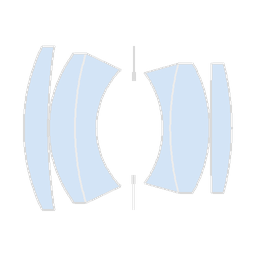
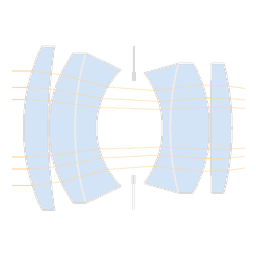
Add ray traces, fix review issues, hide panel when no diagrams
Trace refracted rays through each lens diagram showing how
parallel light converges after the lens system.

Also: extract _lens_index() helper for consistent EnumProperty
parsing, fix potential division-by-zero in ray clipping, extract
_is_stop() helper, and hide Lens Diagram panel when no PNGs exist.

diff --git a/scripts/build_diagrams.py b/scripts/build_diagrams.py
@@ -27,6 +27,11 @@ _SURFACE_LINE = (217, 217, 217, 255)
 _CEMENTED_LINE = (217, 217, 217, 128)
 _STOP_COLOR = (217, 217, 217, 255)
 _AXIS_COLOR = (255, 255, 255, 140)
+_RAY_COLOR = (255, 190, 100, 160)
+
+
+def _is_stop(s):
+    return s["radius"] == 0.0 and s["ior"] <= 1.0
 
 
 def _compute_vertex_positions(surfaces):
@@ -122,6 +127,96 @@ def _draw_arc(draw, vertex_x, radius, semi_ap, to_px, color, width):
     draw.line(points, fill=color, width=width)
 
 
+def _trace_ray(surfaces, positions, start_y):
+    """Trace a parallel ray at given height through the lens. Returns point list or None."""
+    ox = positions[0] - positions[-1] * 0.1
+    oy = start_y
+    dx, dy = 1.0, 0.0
+
+    points = [(ox, oy)]
+    n1 = 1.0
+
+    for i, s in enumerate(surfaces):
+        vx = positions[i]
+        radius = s["radius"]
+        semi_ap = s["aperture"] * 0.5
+        n2 = s["ior"]
+
+        if radius == 0.0:
+            if abs(dx) < 1e-12:
+                return None
+            t = (vx - ox) / dx
+            if t < 1e-6:
+                n1 = n2
+                continue
+            hx = ox + t * dx
+            hy = oy + t * dy
+            if abs(hy) > semi_ap:
+                return None
+            points.append((hx, hy))
+            ox, oy = hx, hy
+            n1 = n2
+            continue
+
+        # Ray-sphere intersection
+        cx = vx + radius
+        ex, ey = ox - cx, oy
+        a = dx * dx + dy * dy
+        b = 2 * (ex * dx + ey * dy)
+        c = ex * ex + ey * ey - radius * radius
+        disc = b * b - 4 * a * c
+        if disc < 0:
+            return None
+        sqrt_disc = math.sqrt(disc)
+        t1 = (-b - sqrt_disc) / (2 * a)
+        t2 = (-b + sqrt_disc) / (2 * a)
+
+        # Pick hit closest to vertex
+        h1x = ox + t1 * dx
+        h2x = ox + t2 * dx
+        if t1 > 1e-6 and (t2 <= 1e-6 or abs(h1x - vx) <= abs(h2x - vx)):
+            t = t1
+        elif t2 > 1e-6:
+            t = t2
+        else:
+            return None
+
+        hx = ox + t * dx
+        hy = oy + t * dy
+        if abs(hy) > semi_ap:
+            return None
+        points.append((hx, hy))
+
+        # Surface normal facing against the ray
+        inv_r = 1.0 / abs(radius)
+        nx = (hx - cx) * inv_r
+        ny = hy * inv_r
+        if nx * dx + ny * dy > 0:
+            nx, ny = -nx, -ny
+
+        # Snell's law
+        if n2 != n1:
+            eta = n1 / n2
+            cos_i = -(dx * nx + dy * ny)
+            sin2_t = eta * eta * (1 - cos_i * cos_i)
+            if sin2_t > 1.0:
+                return None
+            cos_t = math.sqrt(1 - sin2_t)
+            dx = eta * dx + (eta * cos_i - cos_t) * nx
+            dy = eta * dy + (eta * cos_i - cos_t) * ny
+            length = math.sqrt(dx * dx + dy * dy)
+            dx /= length
+            dy /= length
+
+        ox, oy = hx, hy
+        n1 = n2
+
+    # Extend past last surface
+    extend = positions[-1] * 0.3
+    points.append((ox + dx * extend, oy + dy * extend))
+    return points
+
+
 def _render_lens(surfaces):
     size = _RENDER_SIZE
     img = Image.new("RGBA", (size, size), _BG_COLOR)
@@ -162,7 +257,7 @@ def _render_lens(surfaces):
 
     # Draw surface arcs
     for i, s in enumerate(surfaces):
-        if s["radius"] == 0.0 and s["ior"] <= 1.0:
+        if _is_stop(s):
             continue
         semi_ap = s["aperture"] * 0.5
         is_cemented = False
@@ -197,7 +292,7 @@ def _render_lens(surfaces):
 
     # Draw aperture stop
     for i, s in enumerate(surfaces):
-        if s["radius"] == 0.0 and s["ior"] <= 1.0:
+        if _is_stop(s):
             stop_x = positions[i]
             semi_ap = s["aperture"] * 0.5
             notch = semi_ap * 0.15
@@ -216,6 +311,44 @@ def _render_lens(surfaces):
                     fill=_STOP_COLOR,
                     width=4 * _SUPERSAMPLE,
                 )
+
+    # Trace example rays
+    first_semi_ap = surfaces[0]["aperture"] * 0.5
+    clip_left = _PADDING * 0.5
+    clip_right = size - _PADDING * 0.5
+    for frac in (0.7, 0.5, 0.35, -0.35, -0.5, -0.7):
+        ray_pts = _trace_ray(surfaces, positions, frac * first_semi_ap)
+        if ray_pts and len(ray_pts) >= 2:
+            px_pts = [to_px(x, y) for x, y in ray_pts]
+            # Clip to drawing area
+            clipped = []
+            for j in range(len(px_pts) - 1):
+                ax, ay = px_pts[j]
+                bx, by = px_pts[j + 1]
+                dx = bx - ax
+                if abs(dx) < 1e-6:
+                    if clip_left <= ax <= clip_right:
+                        clipped.append((ax, ay))
+                        if j == len(px_pts) - 2:
+                            clipped.append((bx, by))
+                    continue
+                if ax < clip_left:
+                    if bx <= clip_left:
+                        continue
+                    t = (clip_left - ax) / dx
+                    ax = clip_left
+                    ay = ay + t * (by - ay)
+                if bx > clip_right:
+                    if ax >= clip_right:
+                        continue
+                    t = (clip_right - ax) / dx
+                    bx = clip_right
+                    by = ay + t * (by - ay)
+                clipped.append((ax, ay))
+                if j == len(px_pts) - 2:
+                    clipped.append((bx, by))
+            if len(clipped) >= 2:
+                draw.line(clipped, fill=_RAY_COLOR, width=1 * _SUPERSAMPLE)
 
     return img.resize((_ICON_SIZE, _ICON_SIZE), Image.LANCZOS)
 

diff --git a/addon/__init__.py b/addon/__init__.py
@@ -24,6 +24,10 @@ def _get_lens_items(self, context):
     return _lens_items
 
 
+def _lens_index(props):
+    return int(props.lens) if props.lens else 0
+
+
 def _get_or_create_text_block():
     """Get or create the text datablock containing the generated OSL shader."""
     if _TEXT_BLOCK_NAME in bpy.data.texts:
@@ -43,7 +47,7 @@ def sync_to_cycles(cam):
         return
 
     props = cam.physical_camera
-    lens_index = int(props.lens)
+    lens_index = _lens_index(props)
 
     custom["lens_type"] = lens_index
     custom["aperture_blades"] = props.aperture_blades
@@ -67,7 +71,7 @@ def _sync_focal_length(cam, lens_index):
 
 
 def _on_lens_change(self, context):
-    lens_index = int(self.lens)
+    lens_index = _lens_index(self)
     if lens_index < len(_lens_registry):
         max_fstop = _lens_registry[lens_index]["max_fstop"]
         if self.fstop < max_fstop:
@@ -162,7 +166,7 @@ class CAMERA_OT_apply_physical_lens(bpy.types.Operator):
         cam.type = 'CUSTOM'
         cam.custom_mode = 'INTERNAL'
         cam.custom_shader = text
-        lens_index = int(cam.physical_camera.lens)
+        lens_index = _lens_index(cam.physical_camera)
         _sync_focal_length(cam, lens_index)
         sync_to_cycles(cam)
         return {'FINISHED'}
@@ -216,7 +220,7 @@ class CAMERA_PT_physical_lens(bpy.types.Panel):
 
         layout.prop(props, "lens")
 
-        lens_index = int(props.lens) if props.lens else 0
+        lens_index = _lens_index(props)
 
         if lens_index < len(_lens_registry):
             max_fstop = _lens_registry[lens_index]["max_fstop"]
@@ -248,11 +252,12 @@ class CAMERA_PT_physical_lens_diagram(bpy.types.Panel):
             context.object is not None
             and context.object.type == 'CAMERA'
             and _is_using_physical_lens(context.object.data)
+            and diagram.has_previews()
         )
 
     def draw(self, context):
         props = context.object.data.physical_camera
-        lens_index = int(props.lens) if props.lens else 0
+        lens_index = _lens_index(props)
         icon_id = diagram.get_icon_id(lens_index)
         if icon_id:
             row = self.layout.row()

diff --git a/addon/diagram.py b/addon/diagram.py
@@ -19,6 +19,11 @@ def load_previews(lenses):
             _preview_collection.load(key, str(png_path), 'IMAGE')
 
 
+def has_previews():
+    """Return whether any diagram previews are loaded."""
+    return bool(_preview_collection)
+
+
 def get_icon_id(lens_index):
     """Return the preview icon_id for a given lens index, or 0 if not ready."""
     if _preview_collection is None:
